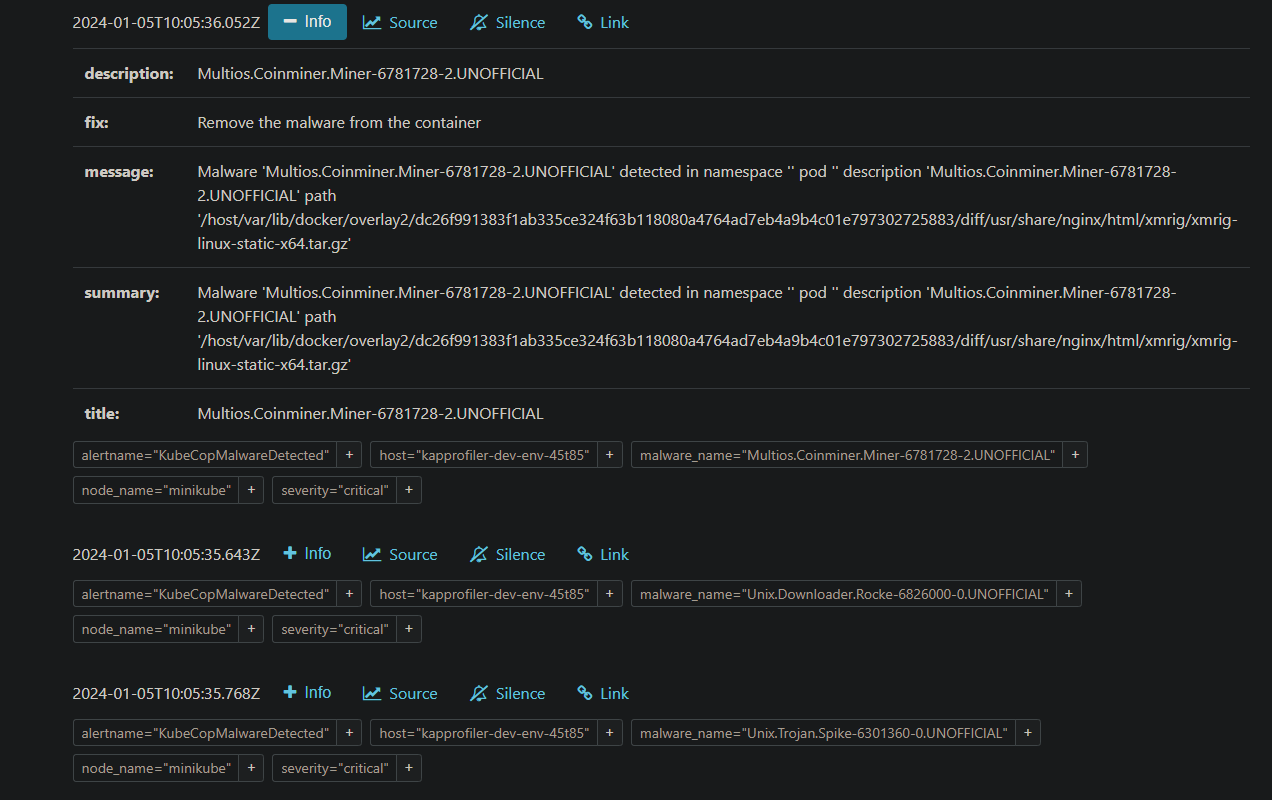
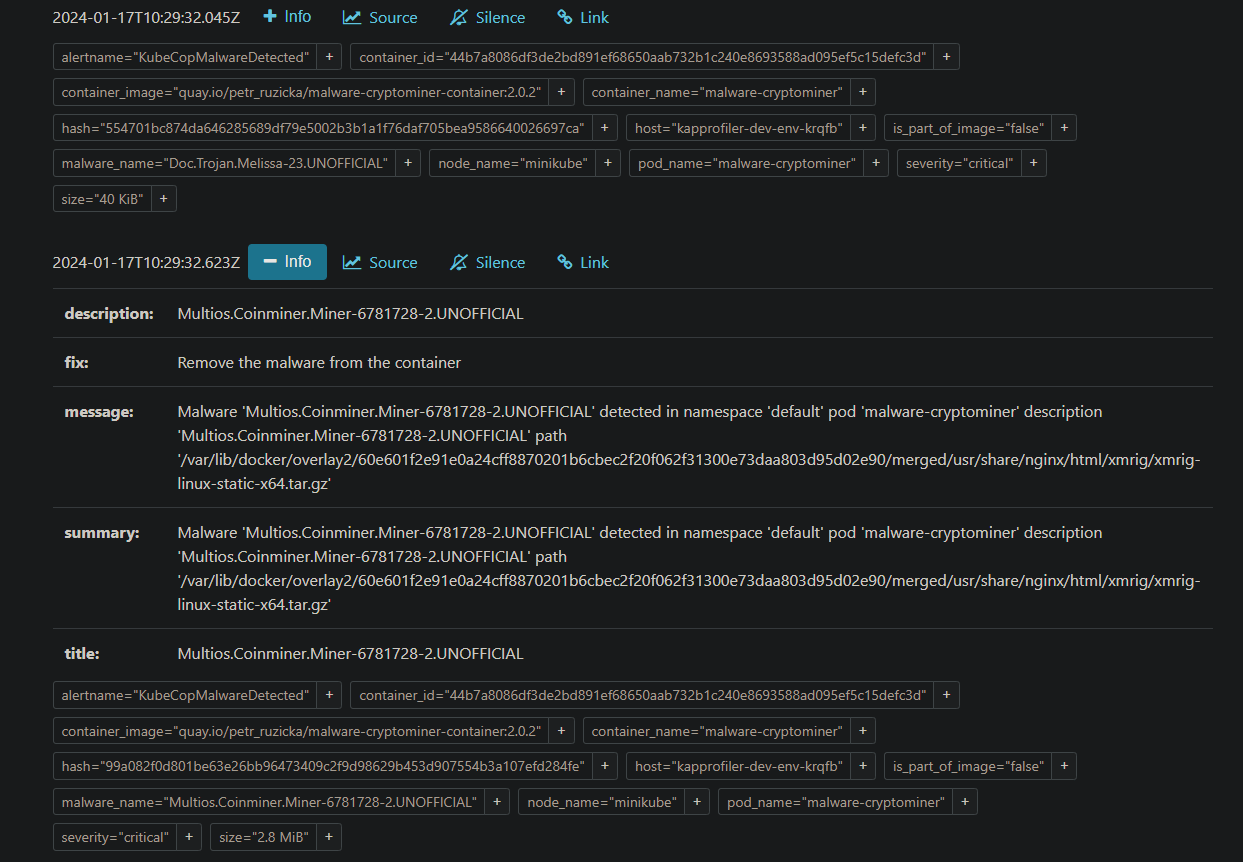
Adding hash to alert manager alerts and new demo image

Changed region(s): [[0.0306, 0.0, 0.9783, 0.8125], [0.0306, 0.8438, 0.856, 1.0], [0.0306, 0.4062, 0.0611, 0.4375]]

diff --git a/pkg/approfilecache/cache.go b/pkg/approfilecache/cache.go
@@ -49,7 +49,7 @@ func getApplicationProfileFromUnstructured(typedObj *unstructured.Unstructured) 
 	var applicationProfileObj collector.ApplicationProfile
 	err := runtime.DefaultUnstructuredConverter.FromUnstructured(typedObj.Object, &applicationProfileObj)
 	if err != nil {
-		return &collector.ApplicationProfile{}, err
+		return nil, err
 	}
 	return &applicationProfileObj, nil
 }
@@ -191,7 +191,6 @@ func (access *ApplicationProfileAccessImpl) GetDNS() (*[]collector.DnsCalls, err
 }
 
 func (c *ApplicationProfileK8sCache) StartController() {
-
 	err := c.applicationProfileWatcher.Start(
 		watcher.WatchNotifyFunctions{
 			AddFunc: func(obj *unstructured.Unstructured) {

diff --git a/pkg/exporters/alert_manager.go b/pkg/exporters/alert_manager.go
@@ -118,6 +118,7 @@ func (ame *AlertManagerExporter) SendMalwareAlert(malwareDescription scan.Malwar
 				"namespace":        malwareDescription.Namespace,
 				"pod_name":         malwareDescription.PodName,
 				"size":             malwareDescription.Size,
+				"hash":             malwareDescription.Hash,
 				"is_part_of_image": fmt.Sprintf("%t", malwareDescription.IsPartOfImage),
 				"container_image":  malwareDescription.ContainerImage,
 				"severity":         "critical",
